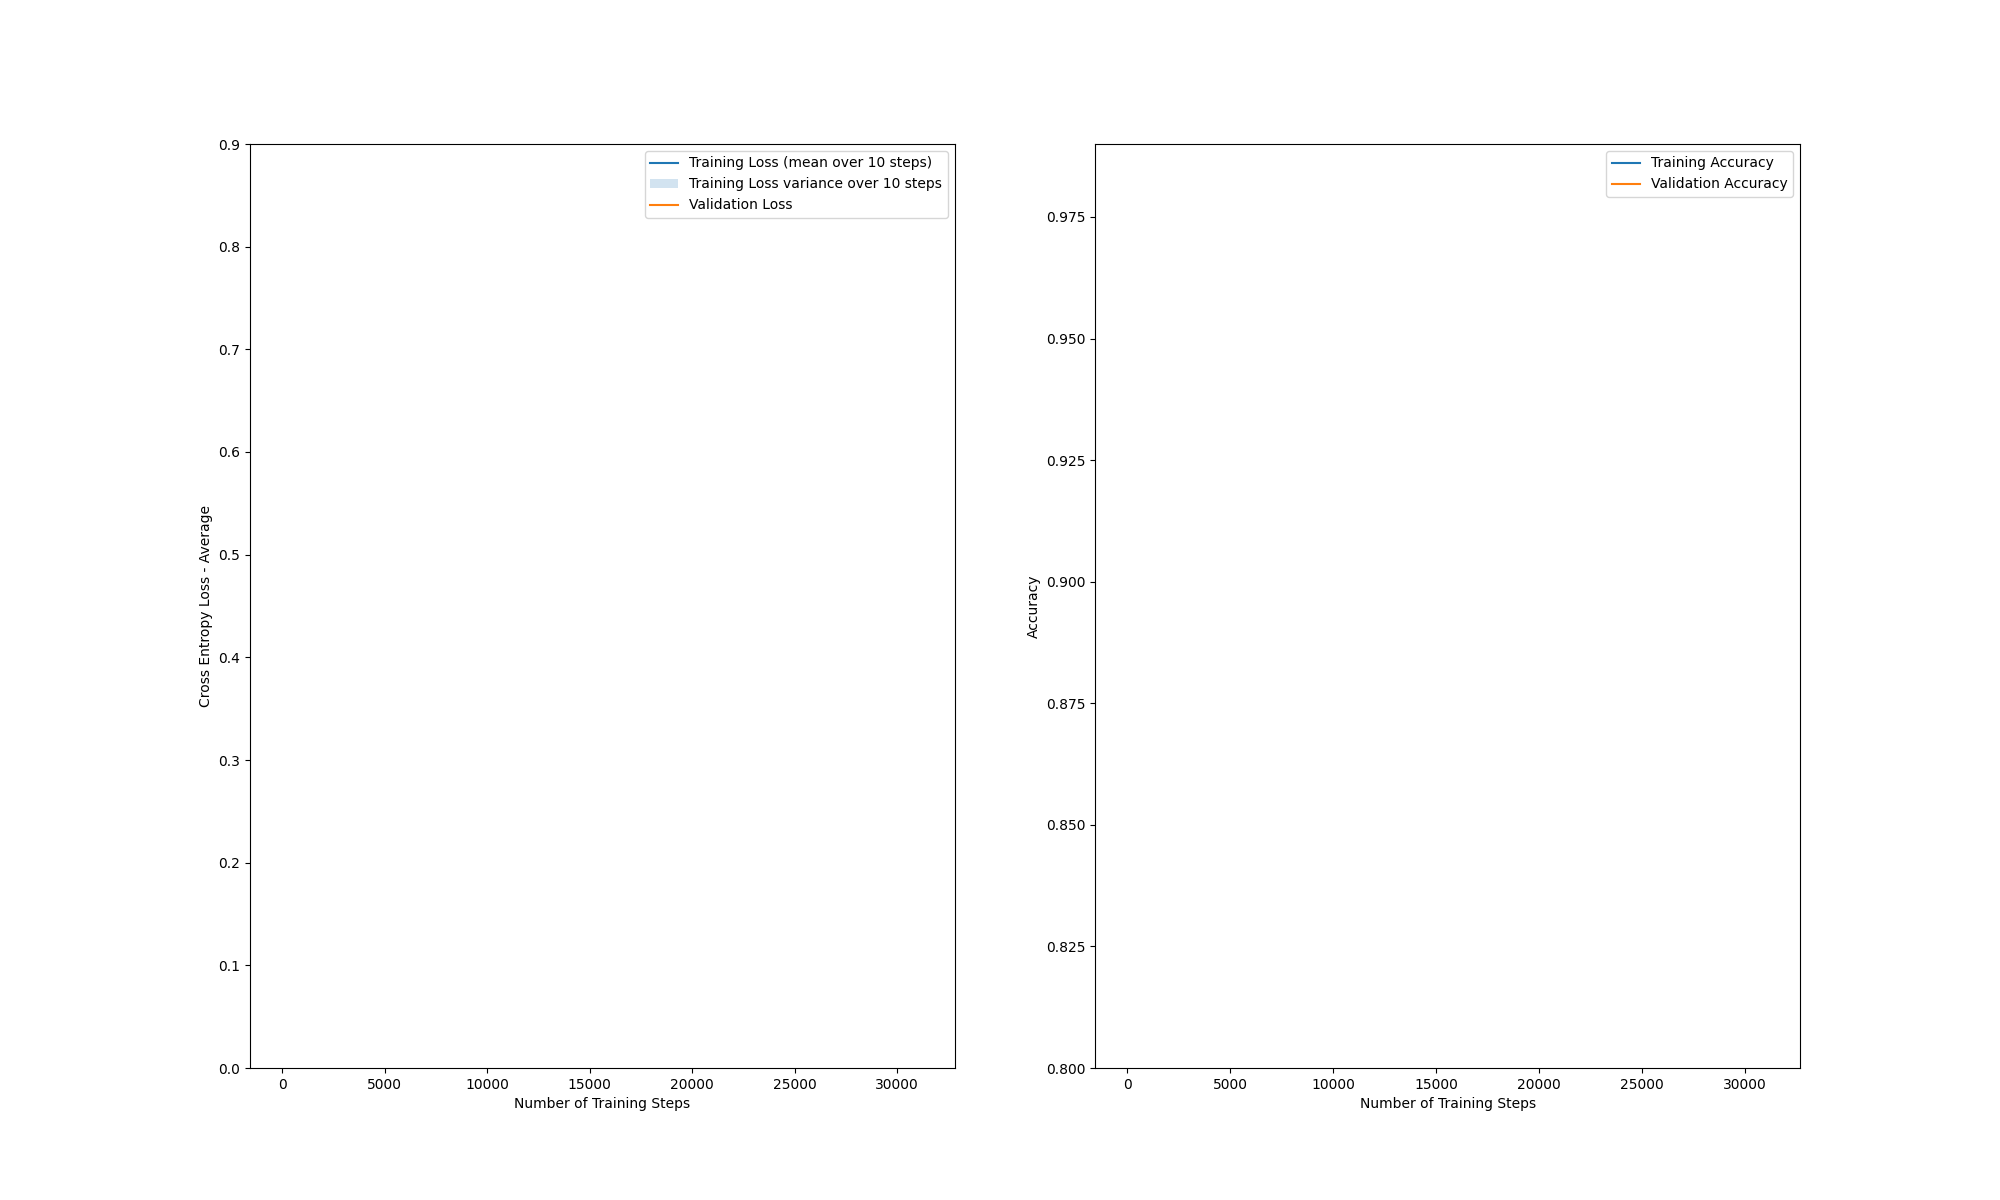
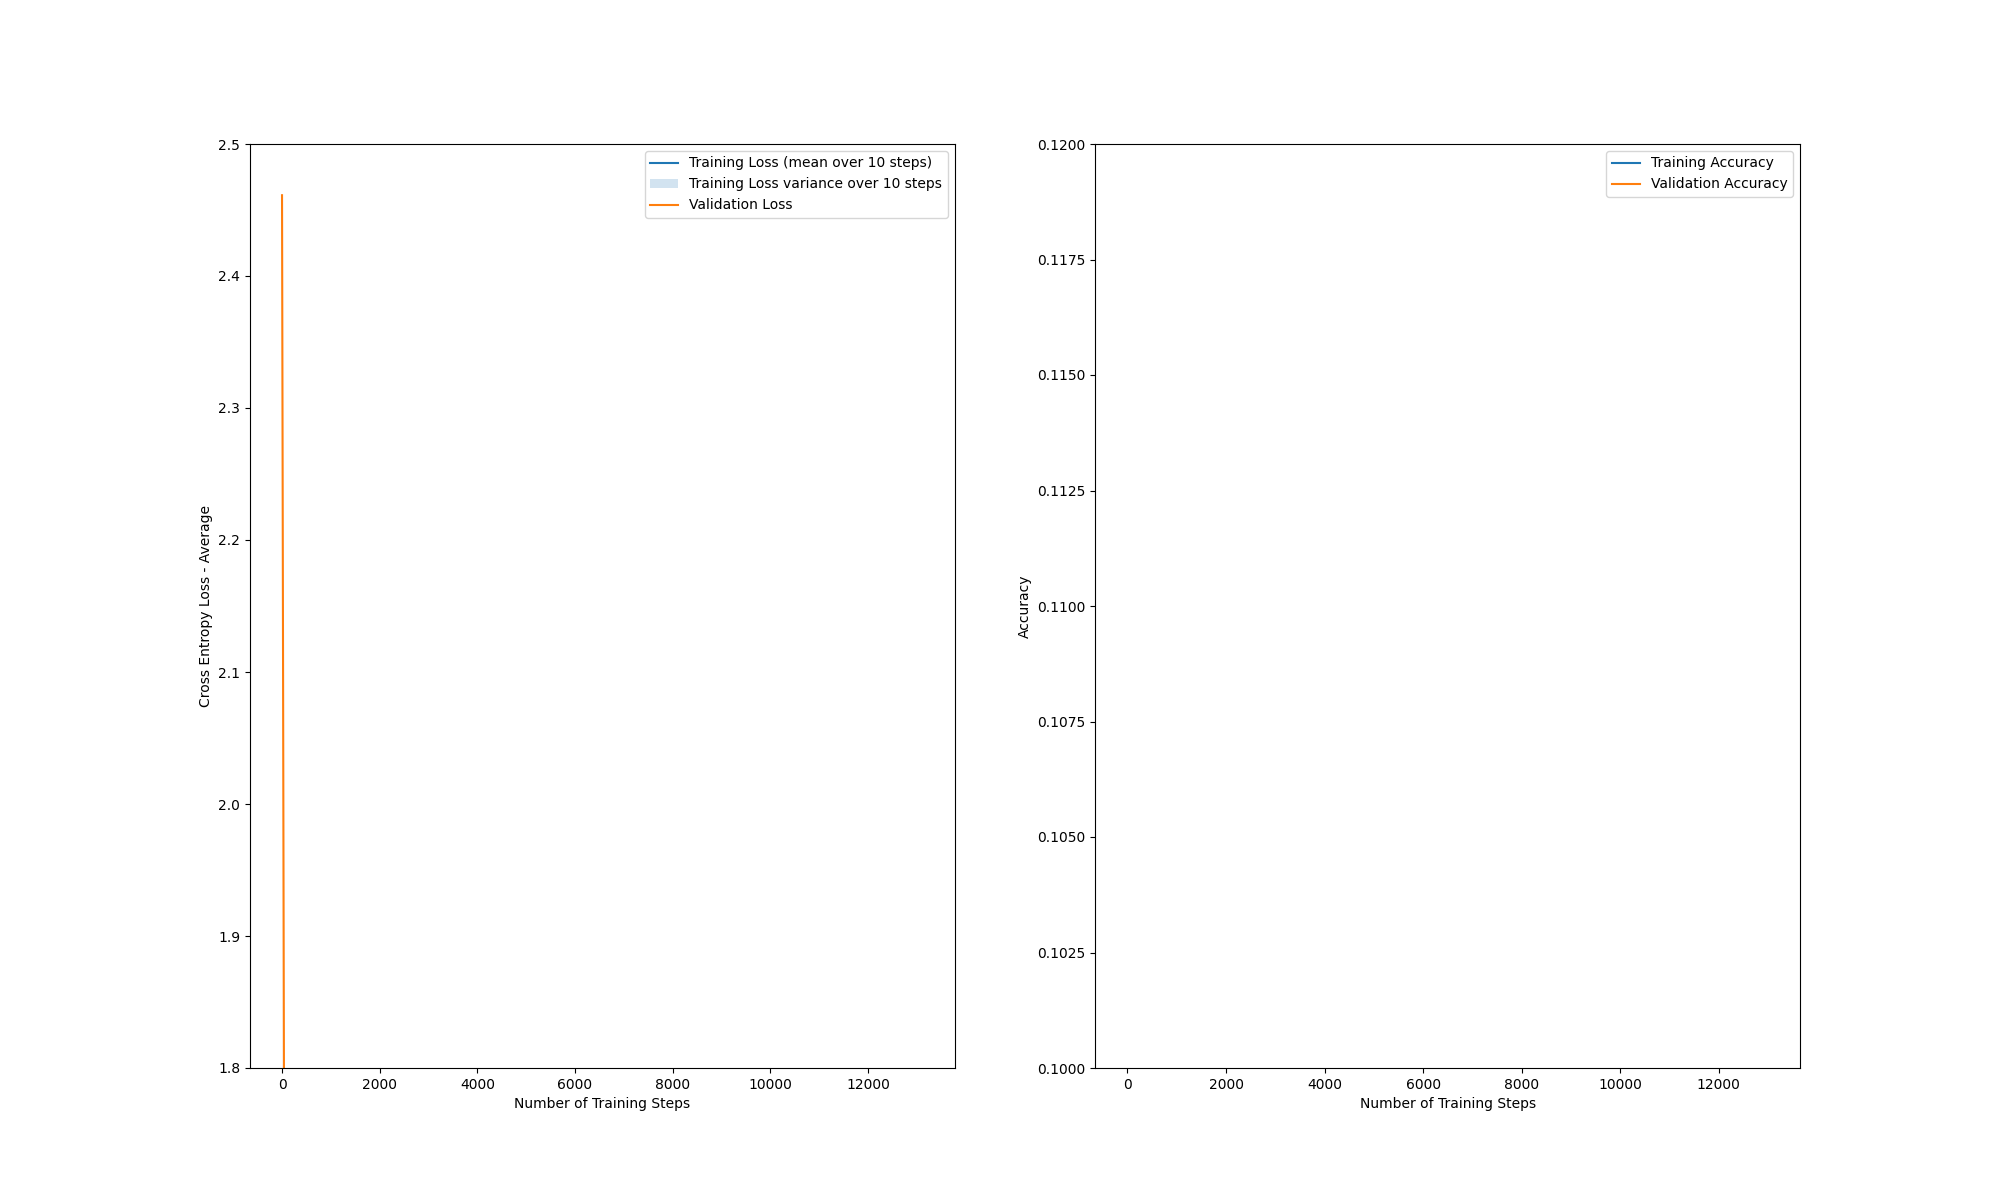
2C finished but comparisons not finished

diff --git a/assignment2/task2.py b/assignment2/task2.py
@@ -7,19 +7,24 @@ from trainer import BaseTrainer
 np.random.seed(0)
 
 
-def calculate_accuracy(
-    X: np.ndarray, targets: np.ndarray, model: SoftmaxModel
-) -> float:
+def calculate_accuracy(X: np.ndarray, targets: np.ndarray, model) -> float:
     """
+    Calculate the accuracy of the model's predictions against the true targets.
+    
     Args:
         X: images of shape [batch size, 785]
-        targets: labels/targets of each image of shape: [batch size, 10]
-        model: model of class SoftmaxModel
+        targets: one-hot encoded labels/targets of each image of shape: [batch size, 10]
+        model: an instance of SoftmaxModel
+    
     Returns:
-        Accuracy (float)
+        Accuracy as a float
     """
-    # TODO: Implement this function (copy from last assignment)
-    accuracy = 0
+    predictions = model.forward(X)
+    predicted_classes = np.argmax(predictions, axis=1)
+    actual_classes = np.argmax(targets, axis=1)
+    correct_predictions = predicted_classes == actual_classes
+    accuracy = np.mean(correct_predictions)
+    print("accuracy", accuracy)
     return accuracy
 
 
@@ -54,12 +59,15 @@ class SoftmaxTrainer(BaseTrainer):
         # TODO: Implement this function (task 2c)
 
         logits = self.model.forward(X_batch)
-        #print(outputs)
+        loss = cross_entropy_loss(Y_batch, logits)
         self.model.backward(X_batch, logits, Y_batch)
-        loss = 0
-        for layer_idx, w in enumerate(self.model.ws):
-            self.model.ws[layer_idx] = (self.model.ws[layer_idx] - self.learning_rate * self.model.grads[layer_idx])
-        loss=cross_entropy_loss(Y_batch, logits)  # sol
+
+        for layer_idx, grad in enumerate(self.model.grads):
+            if self.use_momentum:
+                self.previous_grads[layer_idx] = self.momentum_gamma * self.previous_grads[layer_idx] + self.learning_rate * grad
+                self.model.ws[layer_idx] -= self.previous_grads[layer_idx]
+            else:
+                self.model.ws[layer_idx] -= self.learning_rate * grad
 
         return loss
 
@@ -95,9 +103,9 @@ def main():
     shuffle_data=True
 
     # Settings for task 2 and 3. Keep all to false for task 2.
-    use_improved_sigmoid=False
-    use_improved_weight_init=False
-    use_momentum=False
+    use_improved_sigmoid=True
+    use_improved_weight_init=True
+    use_momentum=True
     use_relu=False
 
     # Load dataset
@@ -137,11 +145,11 @@ def main():
     )
     print("Train accuracy:", calculate_accuracy(X_train, Y_train, model))
     print("Validation accuracy:", calculate_accuracy(X_val, Y_val, model))
-
+    print()
     # Plot loss for first model (task 2c)
     plt.figure(figsize=(20, 12))
     plt.subplot(1, 2, 1)
-    plt.ylim([0.0, 0.9])
+    plt.ylim([0.0, 0.6])
     utils.plot_loss(train_history["loss"],
                     "Training Loss", npoints_to_average=10)
     utils.plot_loss(val_history["loss"], "Validation Loss")
@@ -150,7 +158,7 @@ def main():
     plt.ylabel("Cross Entropy Loss - Average")
     # Plot accuracy
     plt.subplot(1, 2, 2)
-    plt.ylim([0.8, 0.99])
+    plt.ylim([0.8, 1.05])
     utils.plot_loss(train_history["accuracy"], "Training Accuracy")
     utils.plot_loss(val_history["accuracy"], "Validation Accuracy")
     plt.xlabel("Number of Training Steps")

diff --git a/assignment2/task2a.py b/assignment2/task2a.py
@@ -36,15 +36,11 @@ def cross_entropy_loss(targets: np.ndarray, outputs: np.ndarray) -> float:
         Cross entropy error (float)
     """
     # TODO implement this function (Task 3a)
-    sum = 0
-    for i in range(targets.shape[0]):
-        for j in range(targets.shape[1]):
-            sum -= targets[i, j]*np.log(outputs[i, j])
-    sum /= targets.shape[0]
-
     assert targets.shape == outputs.shape,\
         f"Targets shape: {targets.shape}, outputs: {outputs.shape}"
-    return sum
+
+    loss = -np.sum(targets * np.log(outputs)) / targets.shape[0]
+    return loss
 
 def sigmoid(X: np.ndarray):
     return 1/(1+np.exp(-X))
@@ -81,7 +77,10 @@ class SoftmaxModel:
         for size in self.neurons_per_layer:
             w_shape = (prev, size)
             print("Initializing weight to shape:", w_shape)
-            w = np.zeros(w_shape)
+            if self.use_improved_weight_init:
+                w = np.random.normal(0, 1/np.sqrt(prev), w_shape)
+            else:
+                w = np.random.uniform(-1, 1, w_shape) 
             self.ws.append(w)
             prev = size
         self.grads = [None for i in range(len(self.ws))]
@@ -98,12 +97,16 @@ class SoftmaxModel:
         # such as self.hidden_layer_output = ...
         #print("Input: ", X.shape)
         self.hidden_layer_z = X.dot(self.ws[0])
-        self.hidden_layer_a = sigmoid(self.hidden_layer_z)
+        if self.use_improved_sigmoid:
+            self.hidden_layer_a = 1.7159 * np.tanh((2/3) * self.hidden_layer_z)
+        else:
+            self.hidden_layer_a = sigmoid(self.hidden_layer_z)
         output_z = self.hidden_layer_a.dot(self.ws[1])
         output_e = np.exp(output_z)
-        #print("Sum output\n:", np.sum(output_e, axis=1).shape)
+        #print("Output", output_e.shape)
         sum = np.sum(output_e, axis=1)
         output_a = output_e/sum[:, None]
+        time.sleep(1)
 
         #print("Output: ", output_a.shape)
 
@@ -166,7 +169,10 @@ class SoftmaxModel:
         delta_y = targets - outputs
 
         wd = delta_y.dot(self.ws[1].transpose())
-        f_derivative = sigmoid(self.hidden_layer_z)*(1-sigmoid(self.hidden_layer_z))
+        if self.use_improved_sigmoid:
+            f_derivative = 1.7159 * (2/3) * (1 - np.tanh((2/3) * self.hidden_layer_z)**2)
+        else:
+            f_derivative = sigmoid(self.hidden_layer_z)*(1-sigmoid(self.hidden_layer_z))
         delta_1 = f_derivative * wd
         #print("SHape: ", wd.shape)
         
@@ -224,7 +230,7 @@ def gradient_approximation_test(model: SoftmaxModel, X: np.ndarray, Y: np.ndarra
     epsilon = 1e-3
     for layer_idx, w in enumerate(model.ws):
         for i in range(w.shape[0]):
-            #print(i)
+            print(i)
             for j in range(w.shape[1]):
                 orig = model.ws[layer_idx][i, j].copy()
                 model.ws[layer_idx][i, j] = orig + epsilon
